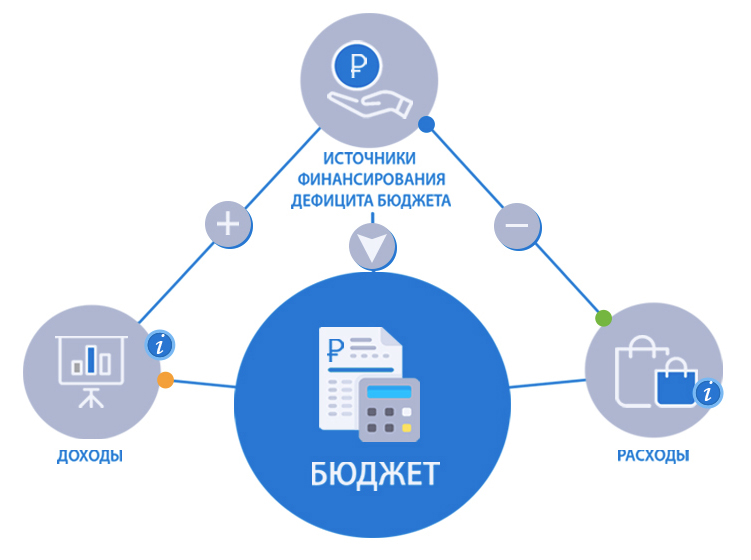
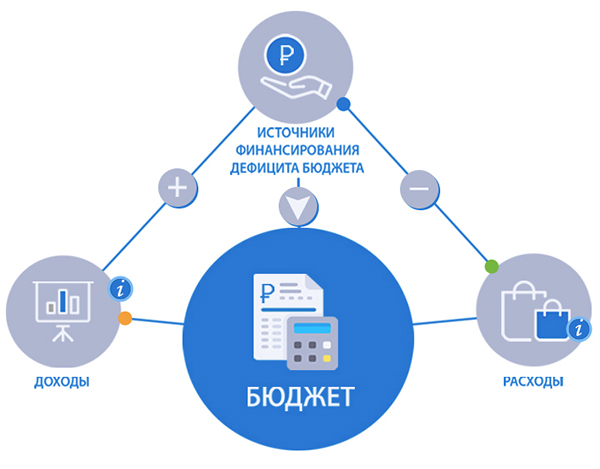
about budget with image map

diff --git a/about-budget.html b/about-budget.html
@@ -270,7 +270,11 @@
         
         <div class="white-block marg-t text-padding">
             <p>БЮДЖЕТ - форма образования и расходования денежных средств, предназначенных для финансового обеспечения задач и функций государства и местного самоуправления (ст. 6 БК РФ).</p>
-            <img src="./images/budzhet.jpg" alt="" class="image marg-t">
+            <img src="./images/budzhet.jpg" alt="" class="image marg-t" usemap="#Map">
+            <map name="Map" id="Map">
+                <area alt="" shape="rect" coords="4,244,140,394" />
+                <area alt="" shape="rect" coords="466,237,599,391" />
+            </map>
             <p class="marg-t">
                 Бюджет является одним из механизмов государственного регулирования в части формирования и развития экономической и социальной структуры общества. Бюджет может рассматриваться как экономическая и правовая категория. Бюджет как экономическая категория выражает систему экономических отношений между государством, с одной стороны, предприятиями, организациями и населением – с другой, по поводу распределения и перераспределения совокупного общественного продукта и национального дохода и формирования централизованного фонда денежных средств, направляемых на финансовое обеспечение задач и функций государства, социально-культурных мероприятий. Сущность бюджета как экономической категории реализуется через его функции:
             </p>
@@ -282,7 +286,7 @@
             </ul>
         </div>
         
-        <div class="white-block text-padding marg-t" id="incomes-block">
+        <div class="white-block text-padding marg-t" id="incomes-block" style="display: none;">
             <div class="grey-circle" style="background-image: url('./images/about-budget-incomes.png')"></div>
             <div class="inline" style="width: 81%; vertical-align: middle;">
                 <h5 class="upper">Поступления, формирующие доходную часть бюджета</h5>
@@ -338,7 +342,7 @@
             </div>
         </div>
         
-        <div class="white-block text-padding marg-t" id="costs-block">
+        <div class="white-block text-padding marg-t" id="costs-block" style="display: none;">
             <div class="grey-circle" style="background-image: url('./images/about-budget-costs.png')"></div>
             <div class="inline" style="width: 81%; vertical-align: middle;">
                 <h5 class="upper">Расходы бюджета</h5>
@@ -346,10 +350,26 @@
             </div>
             <p class="upper marg-t">Расходы могут классифицироваться</p>
             <ul class="graphic-list marg-t">
-                <li class="blue-text"><h6>По государственным программам Волгоградской области</h6></li>
-                <li class="blue-text"><h6>По главным распорядителям бюджетных средств (ведомственная структура)</h6></li>
-                <li class="blue-text"><h6>По функциональной классификации расходов бюджетов</h6></li>
+                <li class="blue-text"><h6 class="costs-1">По государственным программам Волгоградской области</h6></li>
+                <li class="blue-text"><h6 class="costs-2">По главным распорядителям бюджетных средств (ведомственная структура)</h6></li>
+                <li class="blue-text"><h6 class="costs-3">По функциональной классификации расходов бюджетов</h6></li>
             </ul>
+            <div id="costs-1" class="marg-t" style="display: none;">
+                <img src="./images/about-budget-costs-1.png" alt="" class="image">
+            </div>
+            <div id="costs-2" class="marg-t" style="display: none;">
+                <div class="document-block">
+                    <div class="doc-icon"><img src="./images/d_xls.png" alt=""></div>
+                    <div class="doc-description">
+                        <a href="#" class="blue-text">Ведомственная структура</a>
+                        <p class="grey-text">Дата публикации: 10.10.2017 Дата актуализации 30.10.2017</p>
+                        <p class="grey-text">Скачано: 4 раза</p>
+                    </div>
+                </div>
+            </div>
+            <div id="costs-3" class="marg-t" style="display: none;">
+                <img src="./images/about-budget-costs-2.jpg" alt="" class="image">
+            </div>
         </div>
 
 

diff --git a/js/main.js b/js/main.js
@@ -19,6 +19,34 @@ $(function(){
     $('.toggle-item').on('click',function(){
         $(this).next().slideToggle(300);
     });
+    
+    $('#Map area:first').on('click', function(){
+        $('#incomes-block').slideDown(300);
+        $('#costs-block').slideUp(300);
+    });
+    
+    $('#Map area:last').on('click', function(){
+        $('#costs-block').slideDown(300);
+        $('#incomes-block').slideUp(300);
+    });
+    
+    $('.costs-1').on('click', function(){
+        $('#costs-2').slideUp(300);
+        $('#costs-3').slideUp(300);
+        $('#costs-1').slideDown(300);
+    });
+    
+    $('.costs-2').on('click', function(){
+        $('#costs-1').slideUp(300);
+        $('#costs-3').slideUp(300);
+        $('#costs-2').slideDown(300);
+    });
+    
+    $('.costs-3').on('click', function(){
+        $('#costs-2').slideUp(300);
+        $('#costs-1').slideUp(300);
+        $('#costs-3').slideDown(300);
+    });
 
 //    $( "#datepicker, .datepicker" ).datepicker( $.datepicker.regional[ "ru" ] );
 

diff --git a/css/style.css b/css/style.css
@@ -790,3 +790,28 @@ ul.second-menu > li:nth-child(2n) {
 .graphic-list li:nth-child(3):before {
     background-color: #037cd3;
 }
+
+.graphic-list h6 {
+    cursor: pointer;
+}
+
+.document-block > .doc-icon {
+    display: inline-block;
+    vertical-align: top;
+}
+
+.document-block > .doc-icon > img {
+    width: 60px;
+}
+
+
+
+.document-block > .doc-description {
+    display: inline-block;
+    vertical-align: top;
+}
+
+.document-block > .doc-description > p {
+    font-size: 14px;
+    margin-top: 4px;
+}
